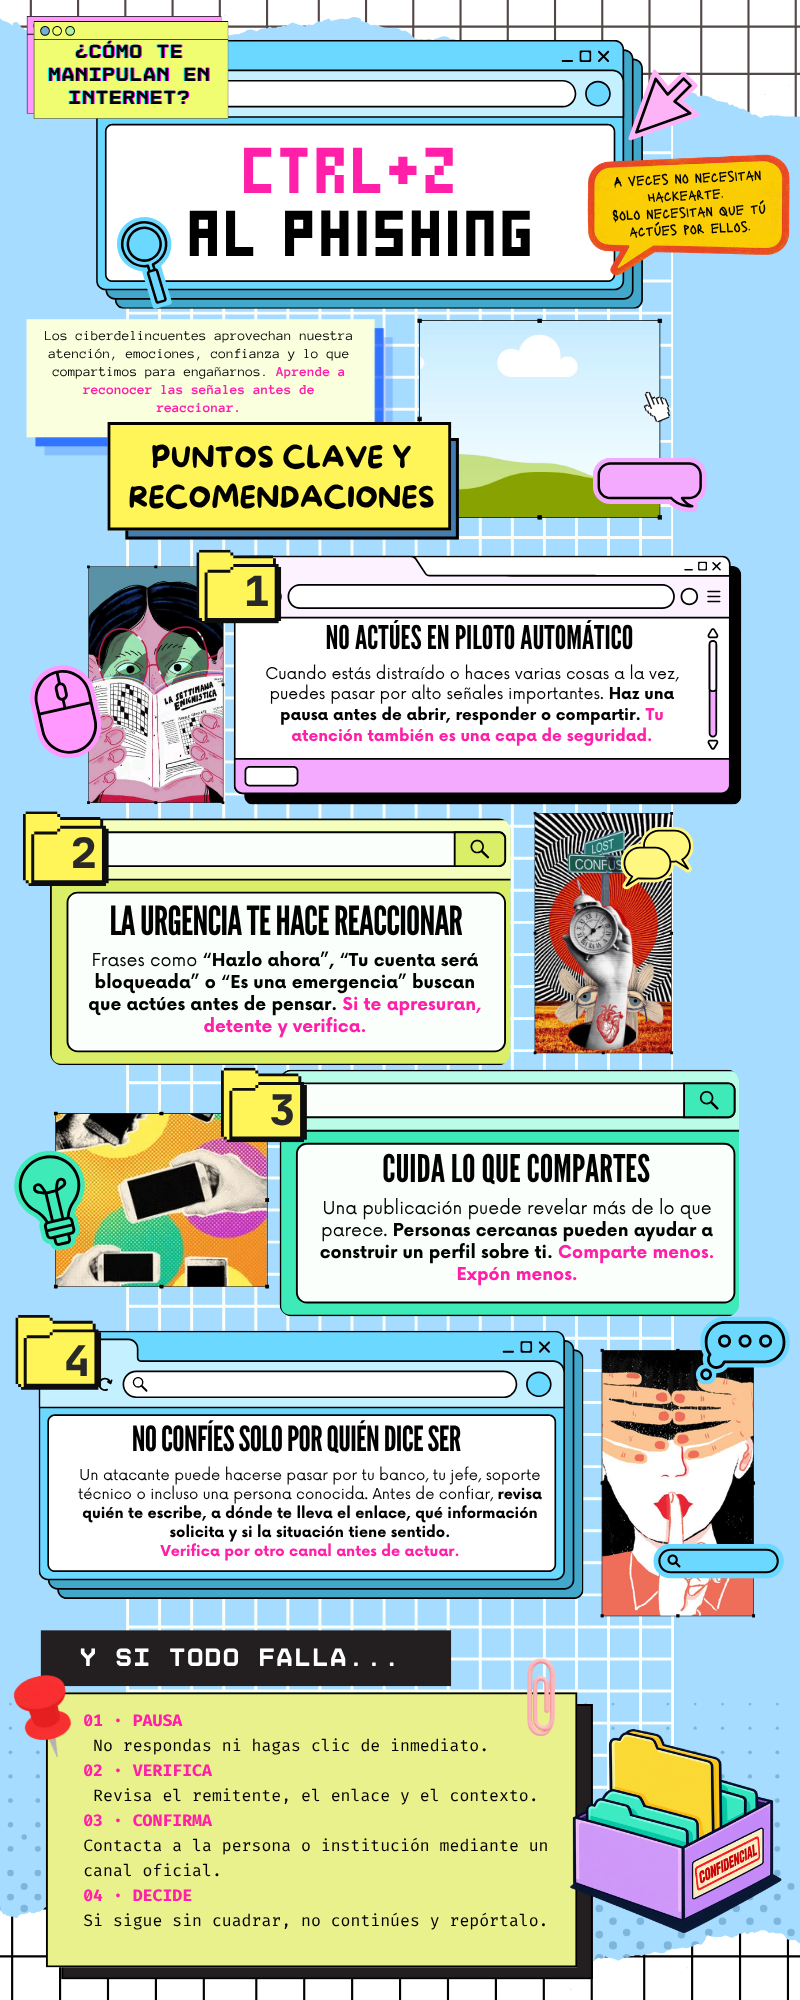
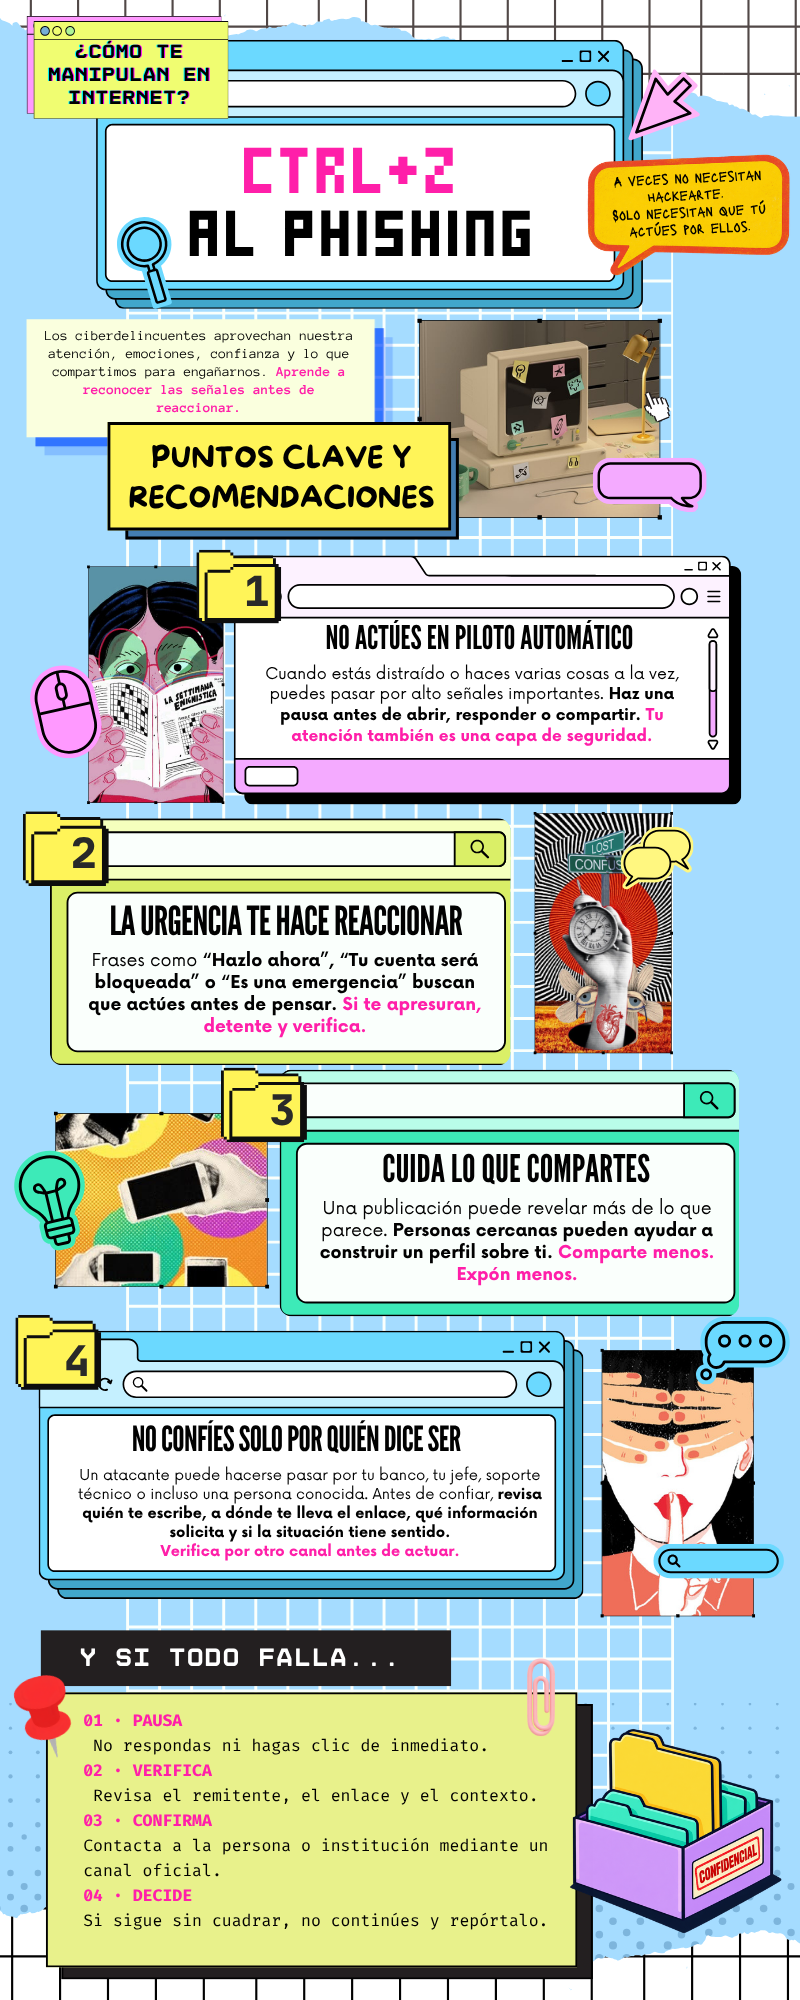
Update

Changed region(s): [[0.5, 0.155, 0.8438, 0.279]]

diff --git a/index.html b/index.html
@@ -49,7 +49,7 @@
   <div class="hero-inner">
     <div class="eyebrow-chip"><img src="images/icon-advertencia.png" class="emoji-icon" alt="Advertencia"> ¿Sabrías reconocerlo?</div>
     <h1 class="title">Antes de dar clic,<br><span class="hl">haz una pausa.</span></h1>
-    <p class="tagline">Aprende a detectar el phishing antes de caer en él.</p>
+    <p class="tagline">Una campaña de sensibilización para prevenir ciberataques y aprender a detectar el phishing antes de caer en él.</p>
     <div class="keys-row"><div class="keycap">Ctrl</div><div class="plus">+</div><div class="keycap">Z</div><div class="keys-row-label">al <span class="text-coral">Phishing</span></div></div>
 
     <div class="hero-scene" aria-hidden="true">
